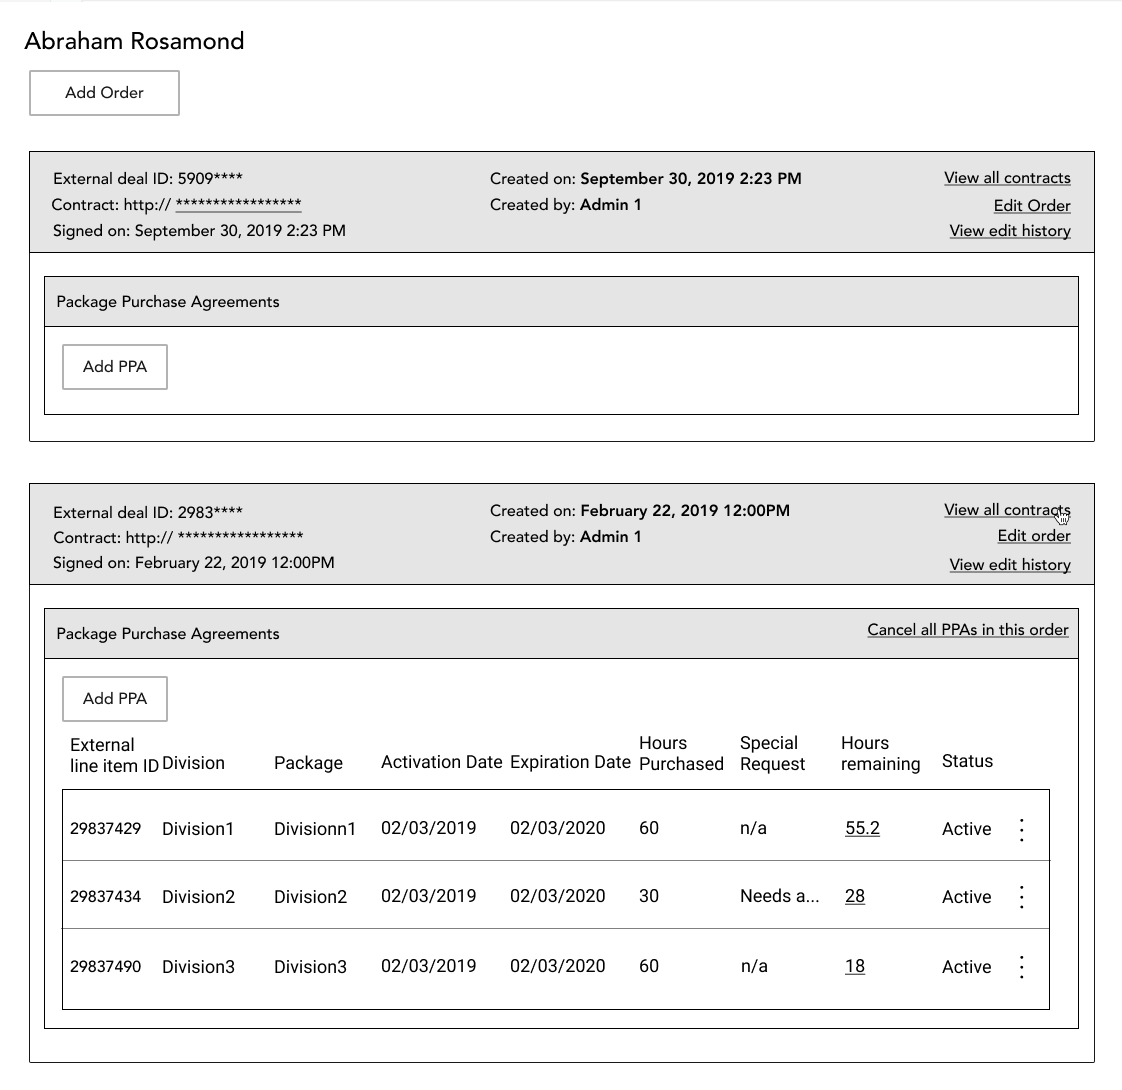
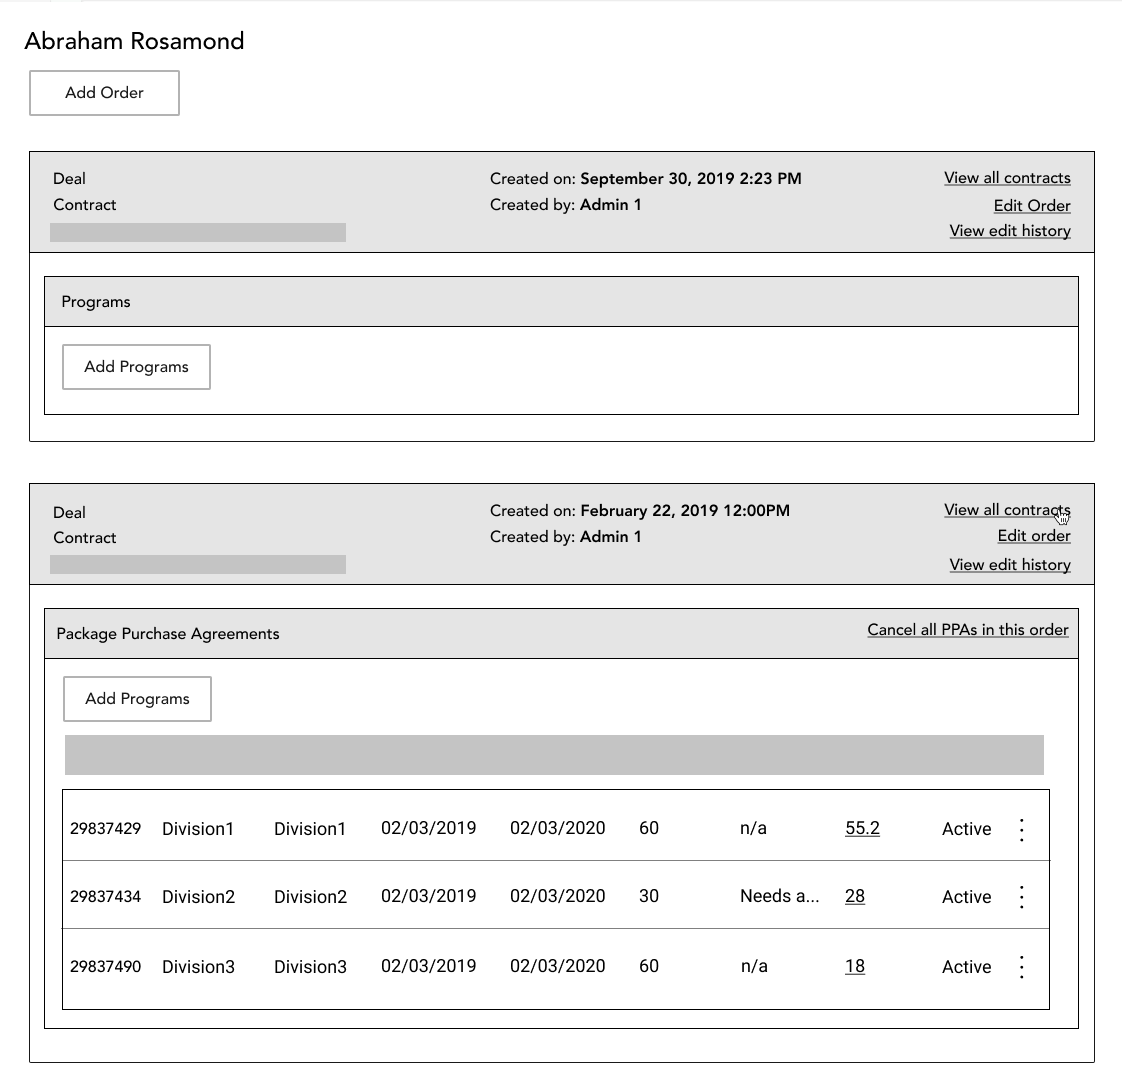
update

diff --git a/cost.html b/cost.html
@@ -185,11 +185,11 @@
         <p class="medium">My approach is to involve the stakeholders early and at each important iterations of the design with face-to-face design walkthroughs and synchronous feedback, because stakeholders are too busy to comment on design file details and share contexts asynchronously. 
           </p>
         <p class="medium">To recap the problem, from the business side, we needed to rework the infrastructure for storing contract information so that it takes in the essential information that will allow us to track COGS correctly. The majority of this infrastructure was already designed by the tech lead and product manager, but it was living in the form of 10s of pages of confluence docs and glossaries, and felt like tangled yarn that needed to be untangled and translated into human-facing interfaces. So the first thing I did was to map out the use cases for the admin interface in the simplest way possible.</p>
-       <div class="row full-width-sm">
+       <!-- <div class="row full-width-sm">
               <div class="col-sm-12">
                 <img class="img-fluid border" src="img/comp_userFlow.png" alt="">
               </div>
-        </div>  
+        </div>   -->
         <p class="medium">After this passed review from tech lead and product lead, it was time to translate it into interfaces. After considering the implementation cost and the switching cost for admin users whose job was to interact with them, I decided to maintain the current UI elements as much as possible, while incorporating the new data points and improving the usability. With these principles in mind, I went through several iterations of the interface with stakeholders to make sure it addresses every party’s needs and does not require any net new UI elements.
           </p>
         <p class="medium">The following is an example wireframe where the structure of a client having multiple contracts and each contract having multiple programs is addressed with the UI structure of the program data tables being contained in contract cards. (The wireframe is modified for portfolio purpose and doesn’t contain any real data.)
@@ -199,8 +199,8 @@
                 <img class="img-fluid border" src="img/comp_wireframe.png" alt="">
               </div>
         </div> 
-        <p class="medium">For efficient implementation, I created detailed, annotated designs and discussed various UI options with engineers.
-          </p>
+        <p class="medium">For efficient implementation, I created detailed, annotated designs and discussed various UI options with engineers.</p>
+        <p class="medium">The following are two UI options: One that's more streamlined by more effort to implement, and another that's less effort to implement. I frequently use mockups like this to help the team make decisions.</p>
           <div class="row full-width-sm">
               <div class="col-sm-12">
                 <img class="img-fluid border" src="img/comp_visual.png" alt="">
